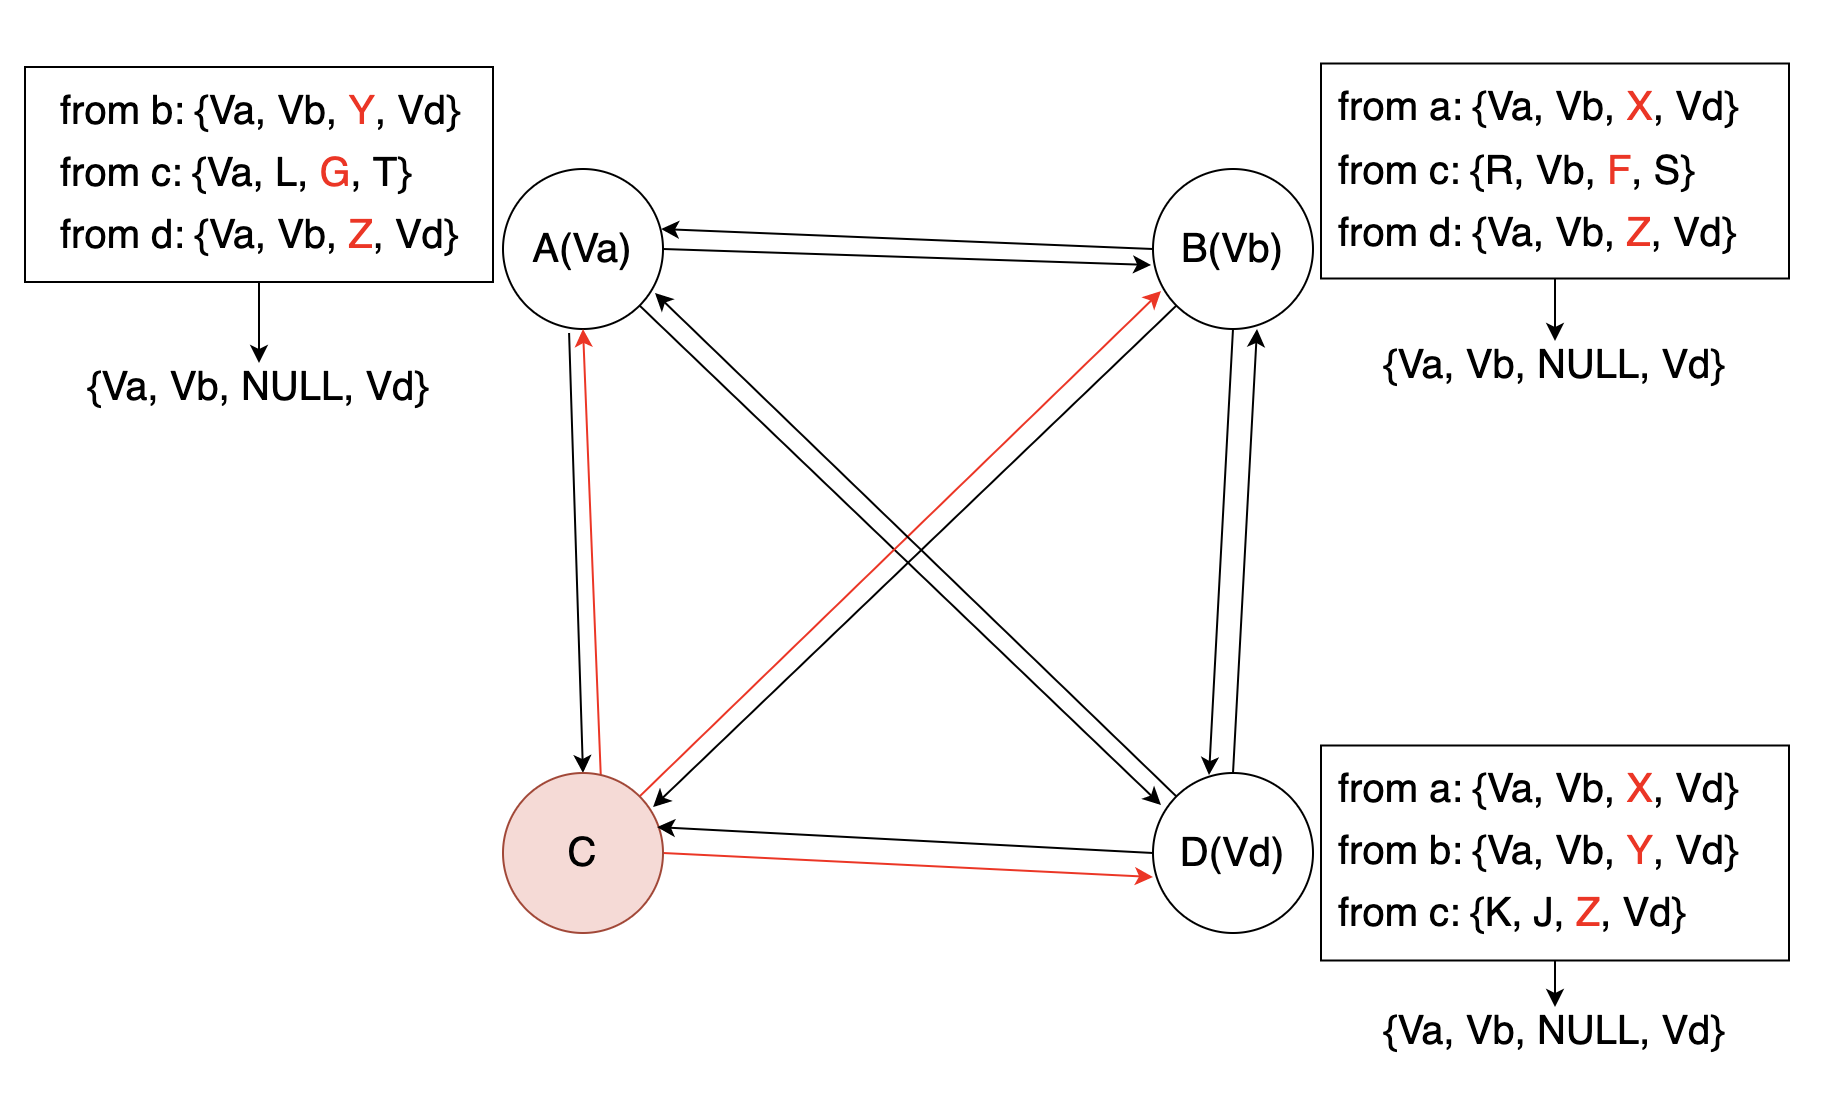
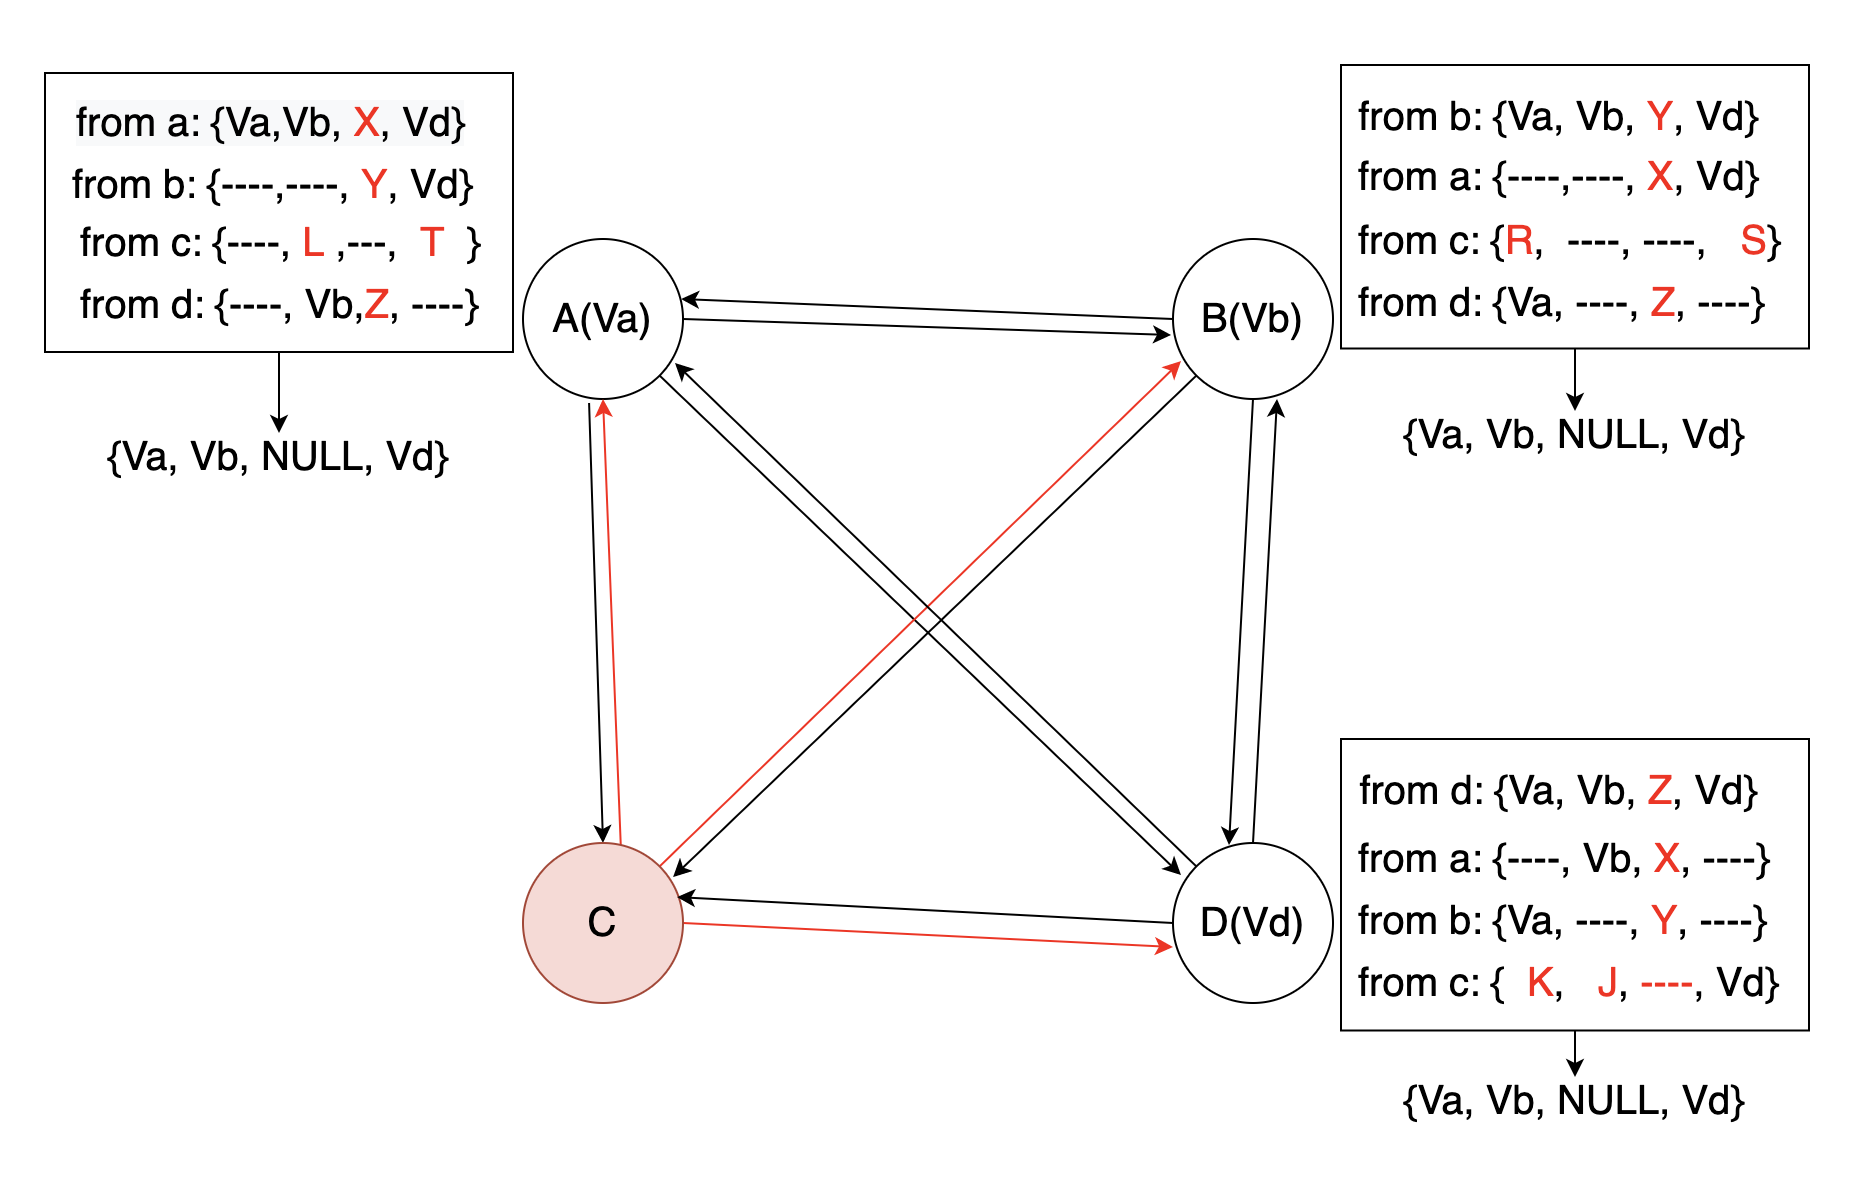
MOD Reaching_agreement_in_the_presence_of_faults.finger5

diff --git a/source/_posts/Reaching_agreement_in_the_presence_of_faults.md b/source/_posts/Reaching_agreement_in_the_presence_of_faults.md
@@ -1,4 +1,4 @@
-title: 容错一致
+title: 容错一致 Reaching agreement in the presence of faults
 date: 2022-08-11
 tags: [Distributed]
 categories: Distributed
@@ -12,7 +12,7 @@ toc: true
 ```
 Reaching Agreement in the Presence of Faults 论文作者提出一种方法来消除错误处理器的影响 - 通过使用循环多轮的信息交换方案来处理;这样的方案可能会迫使有错误的处理器暴露自己有错误，或者至少使其行为与没有错误的处理器保持一致，从而使后者能够达成一致(当然，是在一定的条件下)。
 
-# Definition 
+# Assumptions 
   
 假设总共有n个独立节点，其中错误节点m个，并且不知道具体是哪些节点出现了问题。节点之间只能双方彼此通信，并且假设数据传输是有保障的并且无延迟。接收方可以识别消息的发出者。  
 每个节点n具有私有值Vn（可以理解为当前该节点的状态，比如负载等）。对于给定的m、n，通过彼此间的信息交换，让每个节点持有一个所有节点私有值的向量。最终达成：  
@@ -48,6 +48,11 @@ STEP2:
 在两轮信息交换完成后，每个节点都会持有“一组”向量值元素。节点可以选取“多数”作为认可的元素值，形成最终的向量。
 {% asset_img ReachAggrement-finger5.png finger5 %}
 
-# 多节点错误
+# n >= 3m + 1
+  
+回想一下，上一节给出的过程需要两轮信息交换，第一轮“我的私有值是”，第二轮“节点x告诉我他的私有值是....”。在m个节点故障的一般情况下，需要m + 1轮通信。为了描述该算法，可以以更通用的方式描述这种消息交换。
+  
+P: 节点集合  
+V: 值的集合
   
 
